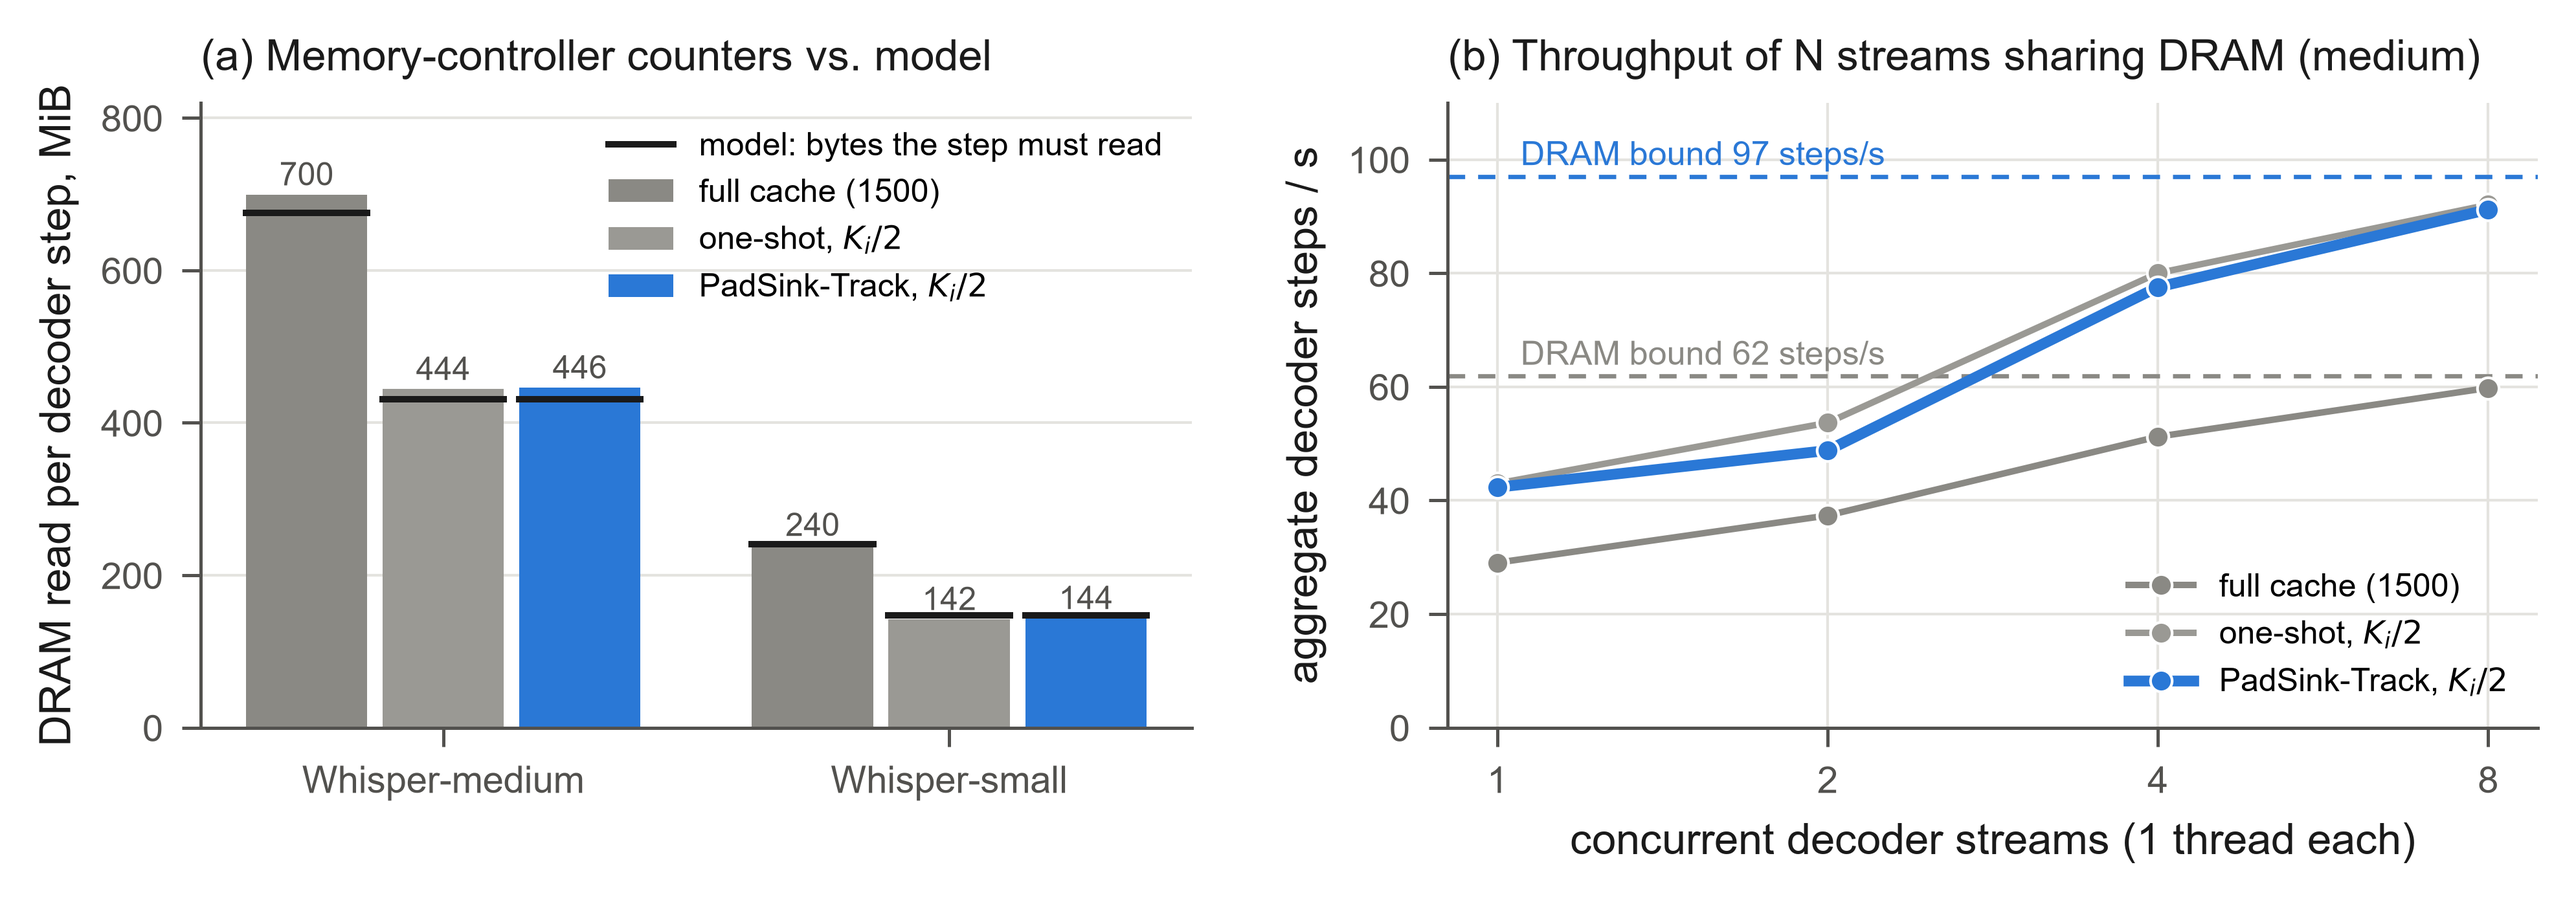
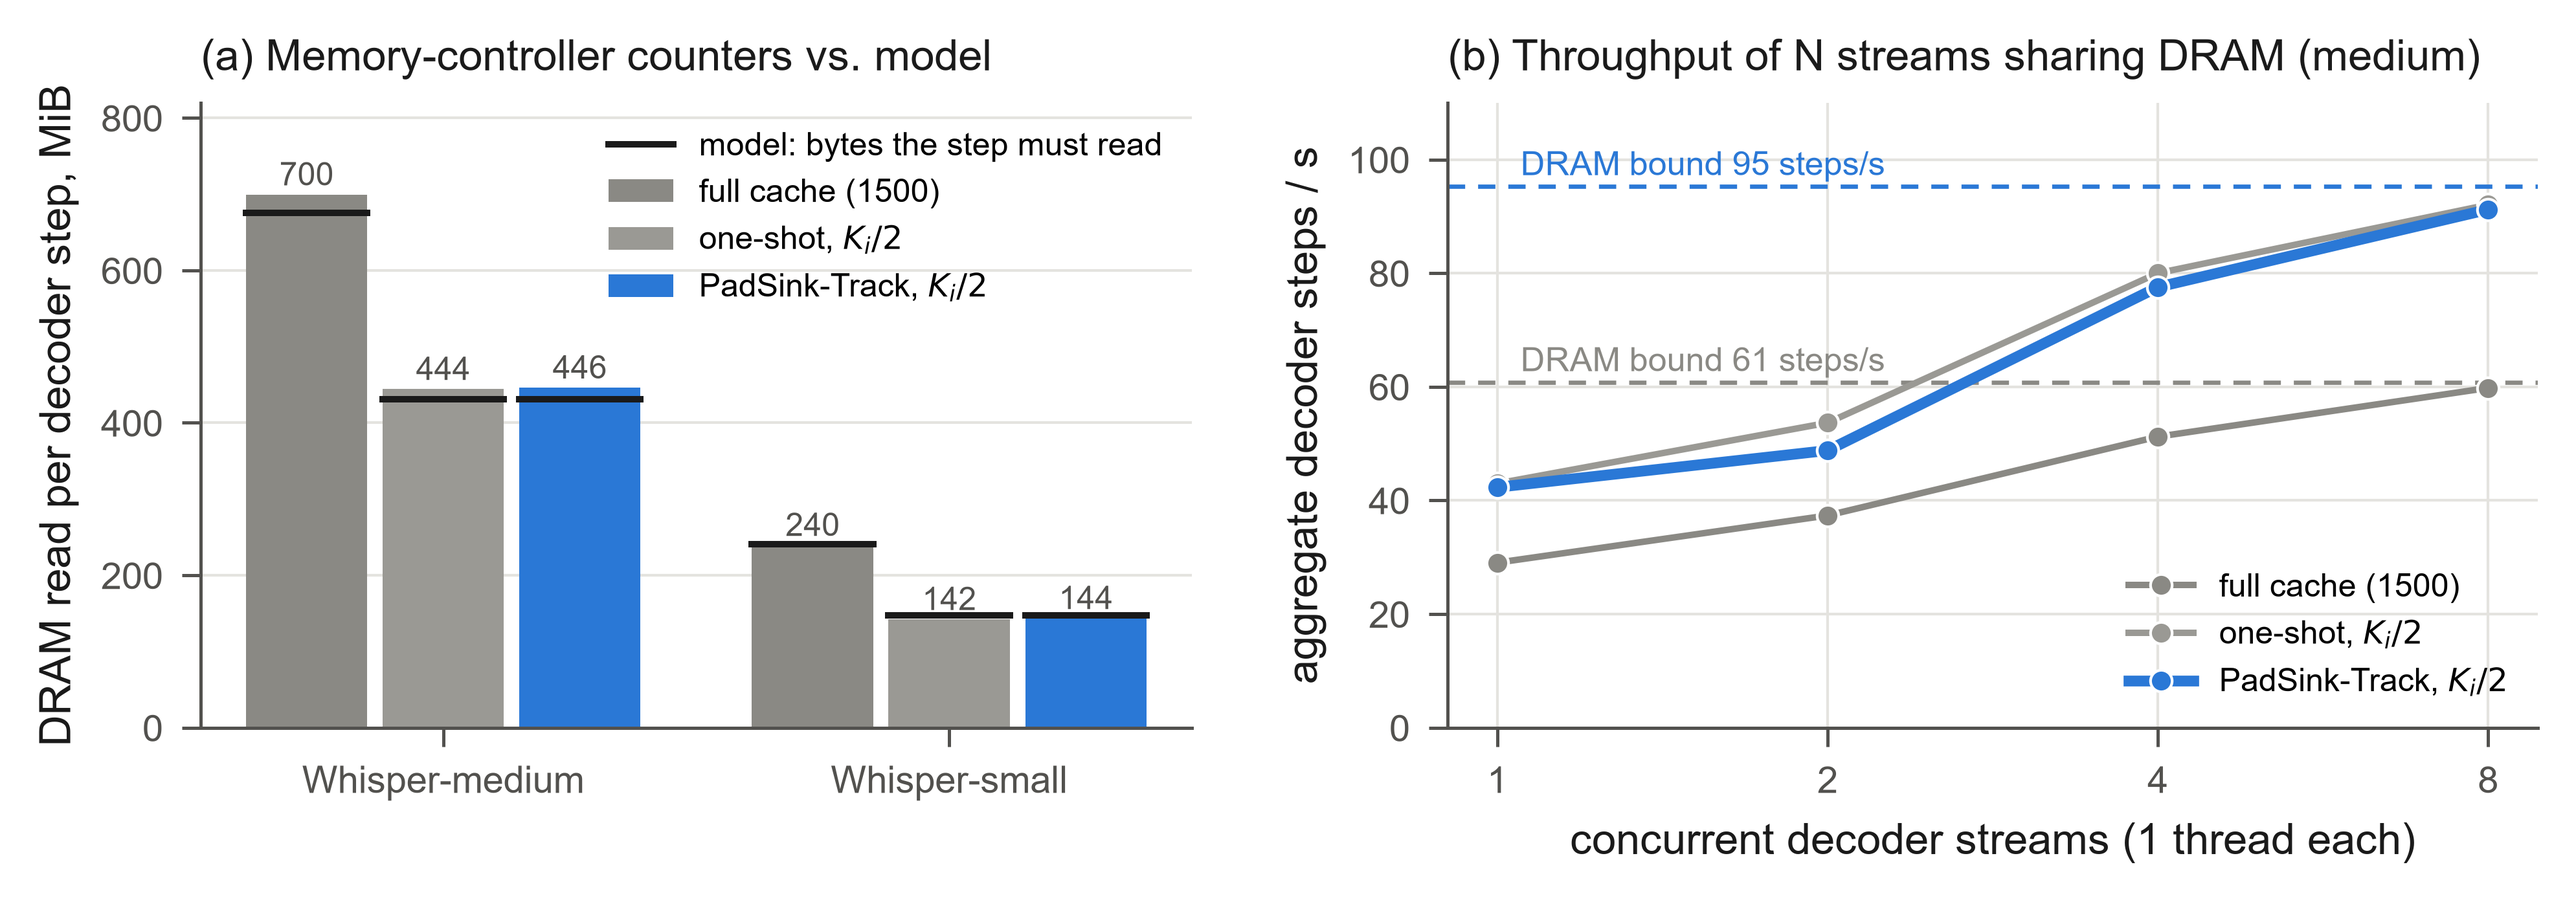
One bandwidth method for 1-8 threads (int32 max, median of repeats); refresh roofline and DRAM bounds

Changed region(s): [[0.5609, 0.3702, 0.9661, 0.4319], [0.5609, 0.1542, 0.9661, 0.2159]]

diff --git a/experiments/roofline.py b/experiments/roofline.py
@@ -1,7 +1,8 @@
 """L9 -- roofline view of one decoder step.
 
 Machine ceilings, single thread (as every timing in the paper):
-  * DRAM read bandwidth: OpenBLAS sdot of a 1 GiB float32 vector with itself
+  * DRAM read bandwidth: max-reduction of a 1 GiB int32 array (read once;
+    same method as the multi-thread measurement). Earlier variants: OpenBLAS sdot of a 1 GiB float32 vector with itself
     (reads it once; far larger than the 24 MiB L3), median of 7. The first
     run used numpy's sum, which is compute-limited (9.8 GB/s, below the
     18-20 GB/s the decoder step itself sustains) -- replaced by sdot
@@ -55,13 +56,21 @@ T_STEP = 30
 HEADS = {"medium_uz": 16, "small_en": 12}
 
 
-def read_bw():
-    a = np.ones(2 ** 28, np.float32)                   # 1 GiB
-    np.dot(a, a)
+def read_bw(threads=1):
+    """Read bandwidth: max-reduction over a 1 GiB int32 array split into
+    `threads` chunks reduced concurrently (numpy releases the GIL). The same
+    method is used for 1-8 threads (43.8 GB/s at 8, the platform limit VTune
+    reports as 44 GB/s); OpenBLAS sdot, used first, does not scale with threads."""
+    from concurrent.futures import ThreadPoolExecutor
+    a = np.ones(2 ** 28, np.int32)
+    parts = np.array_split(a, threads)
+    ex = ThreadPoolExecutor(threads)
+    run = lambda: list(ex.map(lambda p: p.max(), parts))   # noqa: E731
+    run()
     ts = []
     for _ in range(7):
         t0 = time.perf_counter()
-        np.dot(a, a)
+        run()
         ts.append(time.perf_counter() - t0)
     return a.nbytes / np.median(ts) / 1e9
 
@@ -111,10 +120,11 @@ def graph_stats(path):
 
 
 def main():
-    bw, f32, i8 = read_bw(), fp32_peak(), int8_peak()
+    bws = [read_bw(1) for _ in range(5)]
+    bw, f32, i8 = float(np.median(bws)), fp32_peak(), int8_peak()
     print(f"machine (1 thread): DRAM read {bw:.1f} GB/s, FP32 {f32:.1f} GFLOP/s, INT8 {i8:.1f} GOP/s")
     lat = json.load(open(os.path.join(HERE, "results_track_latency.json")))["models"]
-    out = {"bw_GBs": bw, "fp32_GFLOPs": f32, "int8_GOPs": i8, "points": []}
+    out = {"bw_runs_GBs": bws, "bw_GBs": bw, "fp32_GFLOPs": f32, "int8_GOPs": i8, "points": []}
     for name in ("medium_uz", "small_en"):
         s = SETUPS[name]
         wbytes, macs = graph_stats(s.step)

diff --git a/experiments/concurrency_track.py b/experiments/concurrency_track.py
@@ -33,7 +33,7 @@ import numpy as np
 
 HERE = os.path.dirname(os.path.abspath(__file__))
 ARMS = ("full", "oneshot_k", "track_ring")
-BW_SAT = 43.8e9
+BW_SAT = 43.0e9   # median of six 8-thread read measurements (41.6-44.2 GB/s)
 
 
 def worker(model, arm, seconds, barrier, q):
